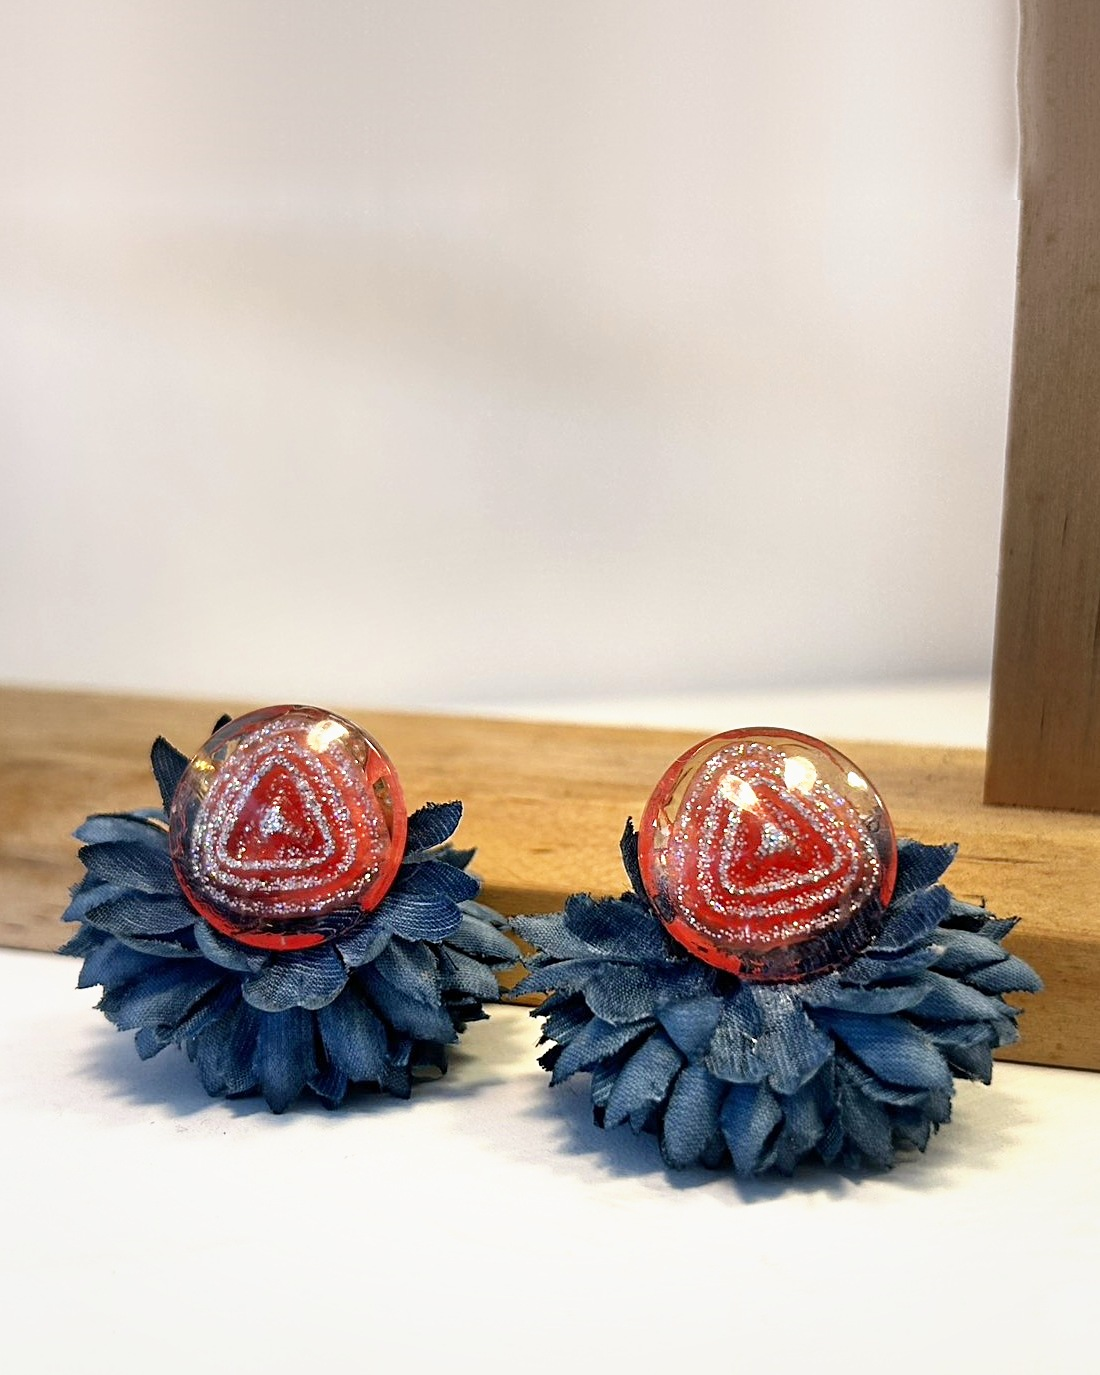
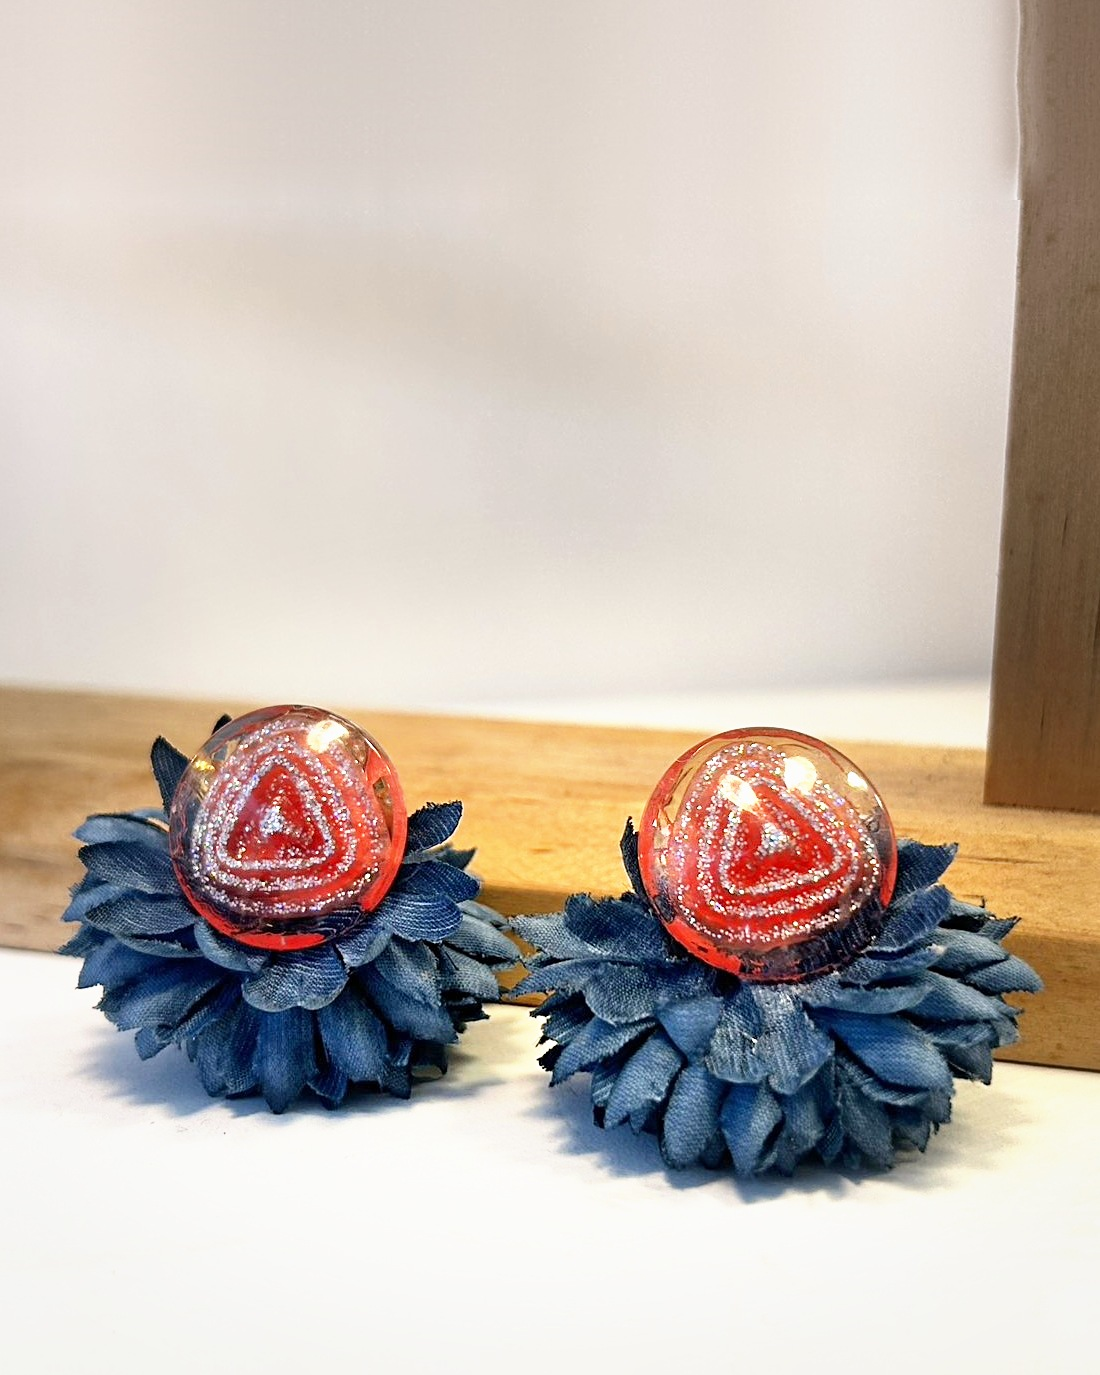
Brighten acc-06 further

Changed region(s): [[0.1855, 0.5193, 0.8655, 0.8553], [0.8655, 0.6109, 0.8964, 0.672]]

diff --git a/index.html b/index.html
@@ -503,7 +503,7 @@ const ACCESSORIES = [
     media: "手作耳環 · Handmade earrings", style: "亮色條紋",
     desc: "桃紅、粉紅與一道寶藍交錯的條紋圓環，透光時有糖果般的光澤，中間垂一顆白珍珠輕輕晃動。用金色圓圈與勾針串起，顏色大膽但很好搭，戴上就是整身的亮點。",
     details: ["條紋圓環", "桃紅＋寶藍", "白珍珠", "金色耳勾"] },
-  { no: "06", type: "earring", file: "works/acc-06.jpg?v=20261120a", title: "紅心漩渦藍花耳環", en: "Red Swirl Blossom",
+  { no: "06", type: "earring", file: "works/acc-06.jpg?v=20261120b", title: "紅心漩渦藍花耳環", en: "Red Swirl Blossom",
     media: "手作耳環 · Handmade earrings", style: "復古花朵",
     desc: "透明圓頂裡包著一圈圈紅色漩渦與銀色閃粉，像一顆藏著光的糖球，底下襯著霧藍色布花。紅與藍的對比帶點復古感，正面看很有份量，是整身穿搭的焦點。",
     details: ["透明圓頂", "紅色漩渦", "銀色閃粉", "霧藍布花"] },
